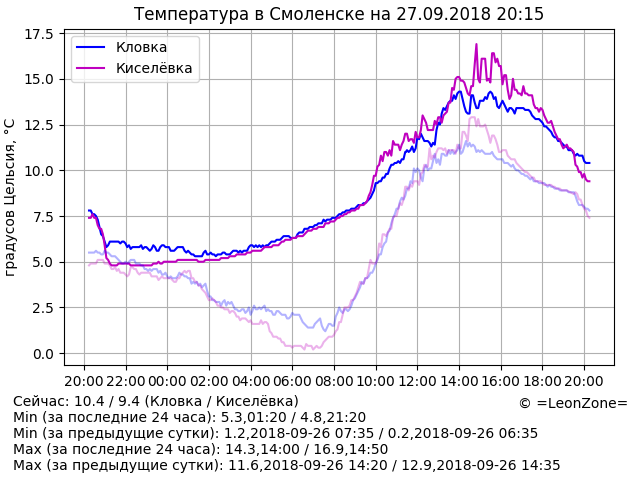
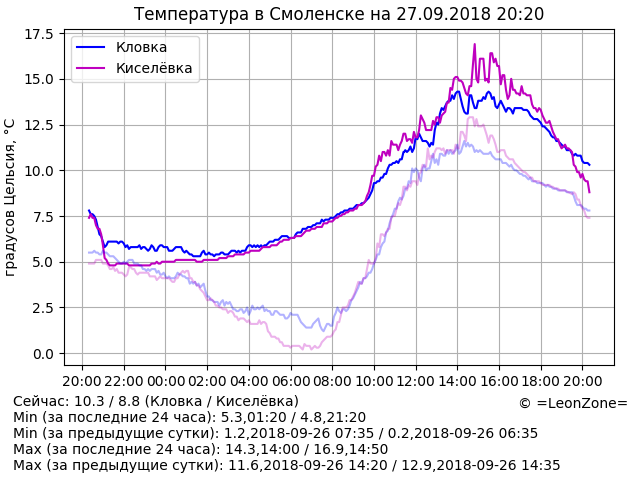
Update data

Changed region(s): [[0.125, 0.0938, 0.9375, 0.75], [0.0938, 0.7812, 0.9375, 0.8438], [0.8125, 0.0, 0.8438, 0.0625]]

diff --git a/index.html b/index.html
@@ -14,7 +14,7 @@
 	<p align="center"><script>document.write("<img src=\"graph.png?rnd="+Math.random()+"\" alt=\"Температура в Смоленске\" align=\"middle\" width=\"640\" height=\"480\" />")</script>
 	<p hidden="true">
 <!-- textinfo -->
-Сейчас: 10.4 / 9.4 (Кловка / Киселёвка)
+Сейчас: 10.3 / 8.8 (Кловка / Киселёвка)
 Min (за последние 24 часа): 5.3,01:20 / 4.8,21:20
 Min (за предыдущие сутки): 1.2,2018-09-26 07:35 / 0.2,2018-09-26 06:35
 Max (за последние 24 часа): 14.3,14:00 / 16.9,14:50
